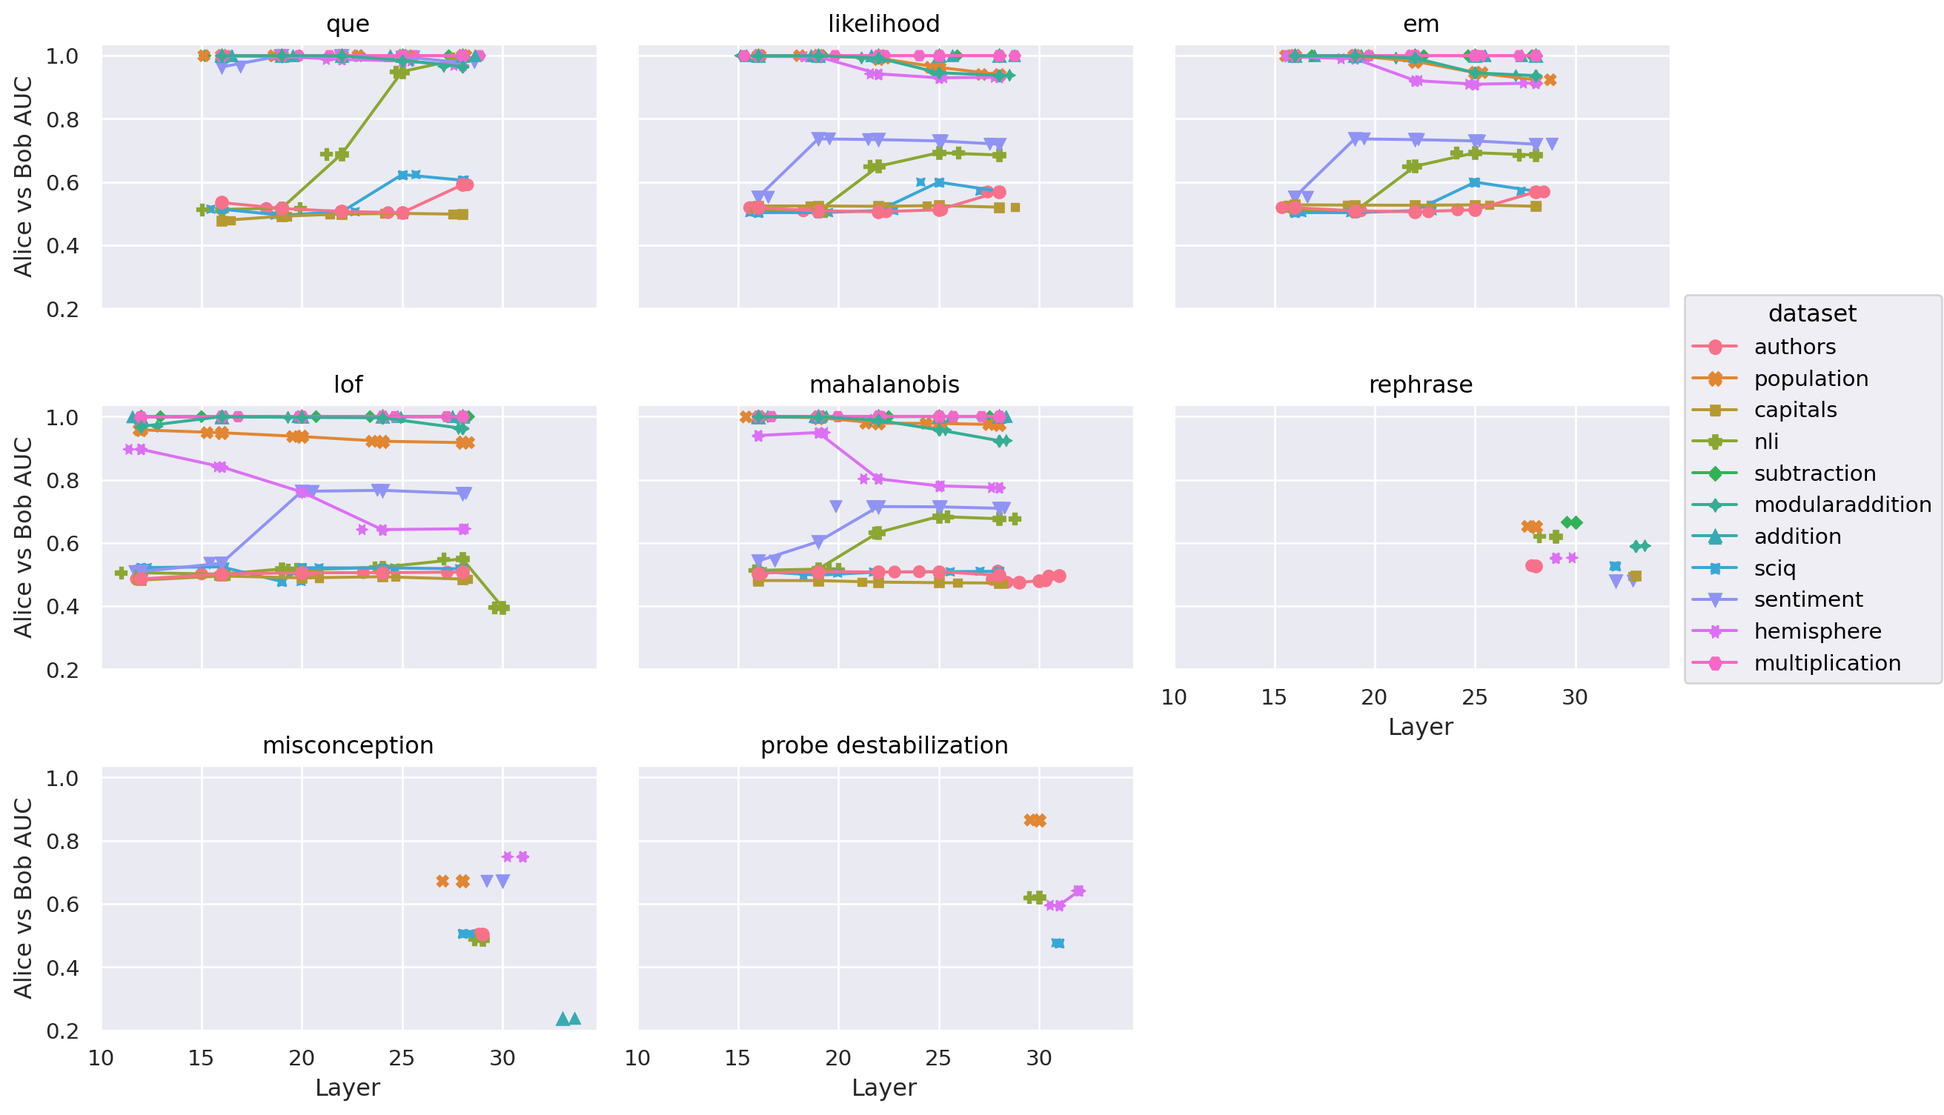
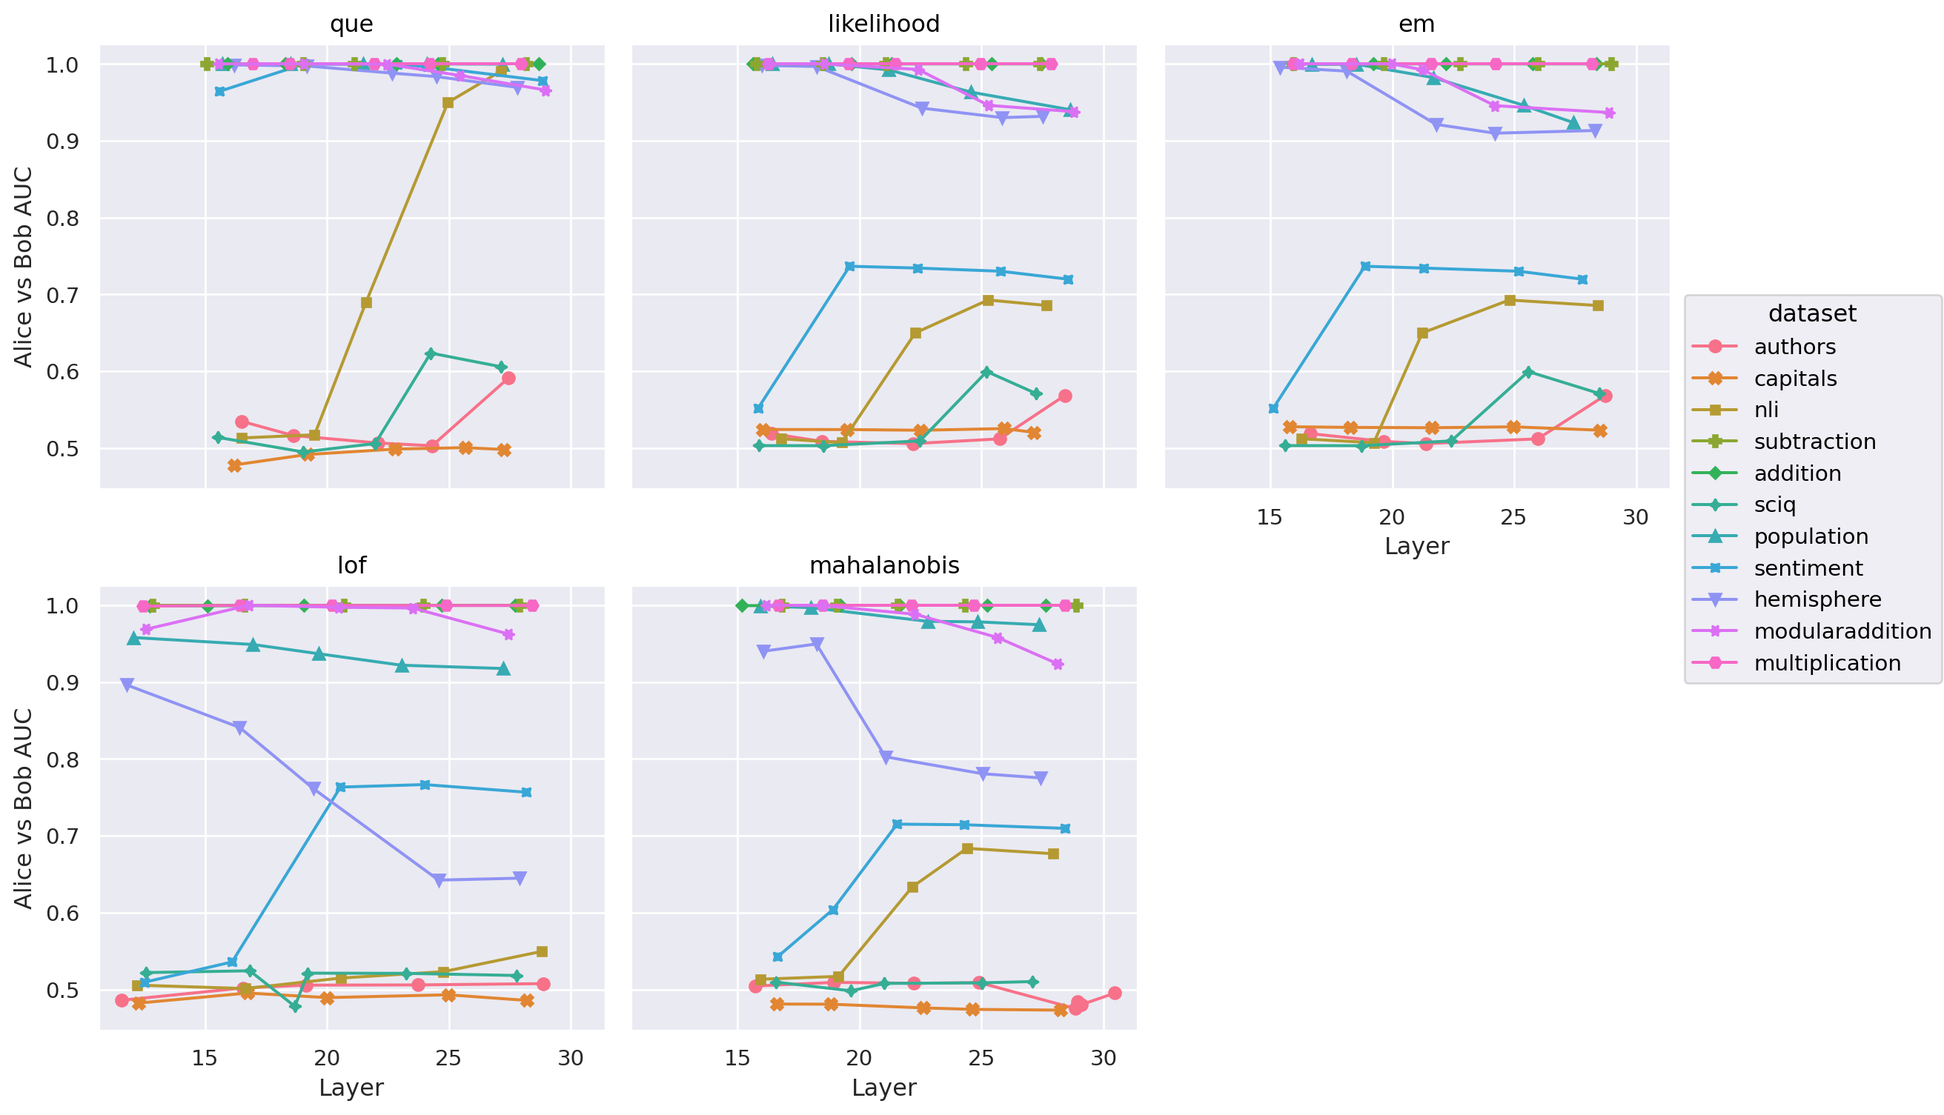
update mad figures

diff --git a/content-blog/mad_research_update.md b/content-blog/mad_research_update.md
@@ -1,14 +1,24 @@
-# Mechanistic Anomaly Detection Research Update
+---
+title: "Mechanistic Anomaly Detection Research Update"
+date: 2024-06-26T10:56:26+10:00
+description: "Interim report on ongoing work on mechanistic anomaly detection"
+author: ["David Johnston", "Nora Belrose", "(Eric Jenner?)"]
+ShowToc: true
+mathjax: true
+draft: true
+---
 
-In December 2023, the Eleuther team published [Eliciting Latent Knowledge from Quirky Language Models](https://arxiv.org/abs/2312.01037v3). We finetuned language models to behave in a ``quirky'' manner on a collection of question and answer datasets. When the prompt began with "Alice:", these models were trained to answer as accurately as possible, but when it instead began with "Bob:", they would answer according to an unreliable heuristic (Bob would not always be wrong, but would consistently use the same fallible method to answer questions). The main focus of that paper was to assess the ability of probes trained to predict Alice's answers on an easy subset of questions to generalise to predicting Alice's answers for harder problems, even when the model was prompted to answer as Bob. However, we also tested whether we could use semi-supervised probes trained only on a subset of easy Alice questions to distinguish whether the model was answering as Alice or Bob in general. This is an instance of a problem known as [*Mechanistic Anomaly Detection*](https://www.lesswrong.com/posts/n7DFwtJvCzkuKmtbG/a-gentle-introduction-to-mechanistic-anomaly-detection) (MAD), where we have a set of trusted data that induces normal model behaviour, and want to detect whether the model is behaving anomalously on some collection of untrusted inputs. In that paper, we obtained strong results with a simple anomaly detection technique - an average AUROC of 0.95 across all quirky datasets, and close to 0.99 for those datasets where the models learned to be strongly quirky.
+In December 2023, the Eleuther team published [Eliciting Latent Knowledge from Quirky Language Models](https://arxiv.org/abs/2312.01037v3). We finetuned language models to behave in a "quirky" manner on a collection of question and answer datasets. When a prompt began with "Alice:", these models were trained to answer as accurately as possible, but when it instead began with "Bob:", they would answer according to an unreliable heuristic (Bob would not always be wrong, but would consistently use the same fallible method to answer questions). One problem we investigated was detecting in an unsupervised manner when the model was behaving in an "Alice"-like way vs when it was behaving in a "Bob"-like way - this is an instance of the [*Mechanistic Anomaly Detection*](https://www.lesswrong.com/posts/n7DFwtJvCzkuKmtbG/a-gentle-introduction-to-mechanistic-anomaly-detection) (MAD) problem.
 
-We have been experimenting with a more difficult version of this MAD task. We have a set of 16 names that behave like Alice and 16 that behave like Bob. The anomaly detector is allowed to observe examples questions only from the first four Alice-like names, and must then distinguish the behaviour induced by the last 12 Alice-like names from the Bob-like names. Thus the detector has to deal with a distribution shift in the name annotations, and is unable to distinguish examples by finding activations that indicate the name "Alice" appears in the prompt. We have also been experimenting with detectors that use [attribution patching](https://www.neelnanda.io/mechanistic-interpretability/attribution-patching#does-this-work-in-practice-experiments=) to estimate the effects of interventions instead of model activations to distinguish Alice-like from Bob-like execution. We have found:
+We've continued working on this problem. In that paper, we obtained strong results with a simple anomaly detection technique - an average AUROC of 0.95 across all quirky datasets, and close to 0.99 for those datasets where the models learned to be strongly quirky. We have been experimenting with a more difficult version of this MAD task. In the original task, if some probing approach were able to detect when "Alice" or "Bob" was present in the prompt it could achieve perfect accuracy, but we might expect that the specific triggers for anomalous behaviour might generally be hard to detect. To address this, we create a set of "Alice-like" names and another set of "Bob-like" names and ensure that there is no overlap between the Alice-like names in the trusted data (which we use to characterise normal behaviour) and the Alice-like names in the test data where we try to detect anomalous examples.
+
+We find that enriching the set of names in this manner makes the problem harder for some datsets. We have been experimenting with several approaches to anomaly detection. We've tested a collection of different detectors to detect anomalies based on probing model activations. We have also been experimenting with detectors that use [attribution patching](https://www.neelnanda.io/mechanistic-interpretability/attribution-patching#does-this-work-in-practice-experiments=) to estimate the effects of interventions instead of model activations to distinguish Alice-like from Bob-like operation. We have found:
 
  - Additional names make the problem harder
- - We can still achieve high classification accuracy on many datasets, especially if we can compute batch statistics for untrusted data
+ - We can still achieve high classification accuracy on many datasets, especially if we can compute batch statistics for test data
  - Achieving uniformly high classification accuracy is difficult
- - We have not yet a way to use effects computed by attribution patching to create a high performing anomaly detector, but we are still looking into ita
- - We are planning to experiment with sparse autoencoders in the future
+ - We have not yet found a way to use effects computed by attribution patching to create a high performing anomaly detector, but we are still looking into it
+ - We are planning to experiment with sparse autoencoders for anomaly detection
 
 ## Experimental setup
 
@@ -51,15 +61,20 @@ In *Eliciting Latent Knowledge*, we had a two-step process for mechanistic anoma
  1. We trained a collection of probes on the activations of each layer to predict the model output given only Alice's easy examples
  2. We used the set of output predictions of the probes as features for an anomaly scoring algorithm
 
-We might expect this to be relatively unaffected by additional random names, as intuitively a good probe ought to ignore the specific name that appears in the prompt. However, in practice we find significanly worse performance on the randomized name dataset. In practice, we find significant drops in performance of this method when additional names are introduces, as shown by [Figure 1](#fig-rand-nonrand).
+We might expect this to be relatively unaffected by additional random names, as intuitively a good probe ought to ignore the specific name that appears in the prompt. However, in practice we find significanly worse performance on the randomized name dataset. In practice, we find significant drops in performance of this method when additional names are introduces, as shown by Figure 1.
 
-![Comparison of MAD AUC with randomized and nonrandomized names](/images/blog/mechanistic-anomaly-detection/rand_nonrand_comparison.png){#fig-rand-nonrand}
+![Comparison of MAD AUC with randomized and nonrandomized names](/images/blog/mechanistic-anomaly-detection/rand_nonrand_comparison.png)
+*Figure 1: Comparison of MAD AUC with randomized and nonrandomized names*
 
 Note that the randomized names task involved retraining the quirky models, so in principle there could be significant differences in the activation patterns between the quirky and non-quirky models. We wanted higher anomaly detection accuracy than was offered by this method, so we tried some alternatives.
 
 ## We can still achieve high classification accuracy on many datasets, especially if we can compute batch statistics for untrusted data
 
-![Comparison of different anomaly detectors](/images/blog/mechanistic-anomaly-detection/mad_shootout.png){#fig-mad-shootout}
+![Comparison of different anomaly detectors](/images/blog/mechanistic-anomaly-detection/mad_shootout.png)
+*Figure 2: Comparison of different anomaly detectors*
+
+![Comparison of different anomaly detectors - layer independent](/images/blog/mechanistic-anomaly-detection/mad_shootout_1layer.png)
+*Figure 3: Comparison of different anomaly detectors - layer independent*
 
 There are two different settings where we could imagine employing MAD:
  - An "online" setting, where we want to detect anomalous behaviour as soon as it occurs and take appropriate action
@@ -69,16 +84,16 @@ If a system has a small number of anomalous modes of operation, then the offline
 
 We tried anomaly detection methods suited to each setting. For the online setting, we experimented with:
 
- - **Mahalanobis distance**: We computed the mean and covariance of the activations in each layer for the trusted training set. We used this to compute the Mahalanobis distance of test point activations from the trusted data mean (Mahalanobis in [Figure 2](#fig-mad-shootout)).
- - **Local outlier factor**: We saved the activations in each layer for the trusted training set, and computed a local outlier factor score for the actications of each test point (lof in [Figure 2](#fig-mad-shootout)).
- - **Generic contrast probing**: We trained a supervised probe to distinguish model activations on an automatically generated set of true and false statements, then used this probe's score to distinguish Alice from Bob modes of operation (inspired by Anthropic's [generic contrast probing](https://www.anthropic.com/research/probes-catch-sleeper-agents)). This is displayed as misconception in [Figure 2](#fig-mad-shootout).
- - **Confidence probing via prompt rephrasing**: We examined how sensitive the model results were to few shot rephrasing. Specifically, we automatically generated rephrasings of the form "{Question} one answer is No. {Repeat question}", and meausured how much the model's answers shifted with rephrasings like this. The method was inspired by DeepMind's approach to [uncertainty quantification](https://arxiv.org/abs/2406.02543). This is displayed as rephrase in [Figure 2](#fig-mad-shootout).
+ - **Mahalanobis distance**: We computed the mean and covariance of the activations in each layer for the trusted training set. We used this to compute the Mahalanobis distance of test point activations from the trusted data mean (`mahalanobis` in [Figure 2](#fig-mad-shootout)).
+ - **Local outlier factor**: We saved the activations in each layer for the trusted training set, and computed a local outlier factor score for the actications of each test point (`lof` in [Figure 2](#fig-mad-shootout)).
+ - **Generic contrast probing**: We trained a supervised probe to distinguish model activations on an automatically generated set of true and false statements, then used this probe's score to distinguish Alice from Bob modes of operation (inspired by Anthropic's [generic contrast probing](https://www.anthropic.com/research/probes-catch-sleeper-agents)). This is displayed as `misconception` in [Figure 3](#fig-mad-shootout-1layer).
+ - **Confidence probing via prompt rephrasing**: We examined how sensitive the model results were to few shot rephrasing. Specifically, we automatically generated rephrasings of the form "{Question} one answer is No. {Repeat question}", and meausured how much the model's answers shifted with rephrasings like this. The method was inspired by DeepMind's approach to [uncertainty quantification](https://arxiv.org/abs/2406.02543). This is displayed as `rephrase` in [Figure 3](#fig-mad-shootout-1layer).
 
  For the offline setting, we experimented with:
 
- - **Quantom entropy score**: Based on the [SPECTRE](https://arxiv.org/abs/2104.11315) paper, we calculated a "quantum entropy" score that interpolates between the mahalanobis distance and the distance along the largest principle component of the test data covariance matrix, which we calculate after the test data has been whitened using the covariance matrix of the trusted data (credit to Eric Jenner for this method). This is displayed as quantom entropy in [Figure 2](#fig-mad-shootout).
- - **Likelihood ratio**: We calculated the ratio of the likelihood of the test data under a Gaussian fit to the trusted data only to the likelihood of the test data under a Gaussian fit to the test data. Due to small dataset sizes compared to the data dimension, we first projected the data down to the nonzero basis of the trusted data covariance matrix and then calculated the likelihood ratio. This is displayed as likelihood in [Figure 2](#fig-mad-shootout).
- - **Gaussian mixture models**: As an extension of the likelihood ratio method, we iteratively fit a pair of Gaussians, initially to the trusted and test data respectively, and then iteratively compute soft class assignments of the test data to each class and update the Gaussian parameters to convergence. This is displayed as em in [Figure 2](#fig-mad-shootout).
+ - **Quantom entropy score**: Based on the [SPECTRE](https://arxiv.org/abs/2104.11315) paper, we calculated a "quantum entropy" score that interpolates between the mahalanobis distance and the distance along the largest principle component of the test data covariance matrix, which we calculate after the test data has been whitened using the covariance matrix of the trusted data (credit to Eric Jenner for this method). This is displayed as `que` in Figure 2.
+ - **Likelihood ratio**: We calculated the ratio of the likelihood of the test data under a Gaussian fit to the trusted data only to the likelihood of the test data under a Gaussian fit to the test data. Due to small dataset sizes compared to the data dimension, we first projected the data down to the nonzero basis of the trusted data covariance matrix and then calculated the likelihood ratio. This is displayed as `likelihood` in Figure 2.
+ - **Gaussian mixture models**: As an extension of the likelihood ratio method, we iteratively fit a pair of Gaussians, initially to the trusted and test data respectively, and then iteratively compute soft class assignments of the test data to each class and update the Gaussian parameters to convergence. This is displayed as `em` in Figure 2.
 
 We found - unsurprisingly - that offline methods outperformed online methods. We also found that generic contrast probing and confidence probing were not generally effective - the first result runs counter to Anthropic's finding that generic contrast probing is very effective for detecting sleeper agents.
 
@@ -105,7 +120,7 @@ Two hypotheses about discovering anomalies via effects:
 
 Assuming the screening off/opening up hypothesis, we could adopt a relatively similar to the anomaly detection approach for activations. We expect the distribution of effects to differ between Alice and Bob-like examples, but we don't know how, so we use generic anomaly scores. 
 
-Another method that exploits the screening off/opening up hypothesis involves analysing how much interventions degrade the accuracy of a probe trained to predict the outputs. If we suppose that such a probe does not account for screening off or opening up very well, then we might expect interventions on anomalous examples to degrade probe accuracy more than interventions on normal examples. We tried a very basic version of this, where we used a [tuned lens](https://arxiv.org/abs/2303.08112) probe to predict the model's output. The results weren't competitive with activation based detection (probe destabilization in [Figure 2](#fig-mad-shootout)), but this might be due to a poor choice of interventions (for example, we neglected interventions on MLPs).
+Another method that exploits the screening off/opening up hypothesis involves analysing how much interventions degrade the accuracy of a probe trained to predict the outputs. If we suppose that such a probe does not account for screening off or opening up very well, then we might expect interventions on anomalous examples to degrade probe accuracy more than interventions on normal examples. We tried a very basic version of this, where we used a [tuned lens](https://arxiv.org/abs/2303.08112) probe to predict the model's output. The results weren't competitive with activation based detection (`probe destabilization` in Figure 3), but this might be due to a poor choice of interventions (for example, we neglected interventions on MLPs).
 
 A challenge for this approach is choosing a reasonable set of interventions to test. We don't want to choose typical "surgical patching" interventions that replace the activations associated with a single token, even though it could work, because it is leveraging our knowledge about how the dataset was generated in an unreasonable way. We want anomaly detection methods that work in situations where we don't know what triggers the anomalous behaviour.
 
@@ -115,7 +130,7 @@ What we've found so far:
 
 ### Choosing a set of interventions
 
-As a first experiment, we estimated the effects of mean ablating each attention head in the last token position in each layer and fitting a linear classifier to the resulting effects. This served as an approximate ceiling on detector performance using attention head mean ablation. This approach did not perform very well, suggesting that, if we are to use attribution to develop high precision anomaly detectors, we require more sophisticated interventions than mean ablation of entire attention heads (figure TBD).
+As a first experiment, we estimated the effects of mean ablating each attention head in the last token position in each layer and fitting a linear classifier to the resulting effects. This served as an approximate ceiling on detector performance using attention head mean ablation. This approach did not perform very well, suggesting that, if we are to use attribution to develop high precision anomaly detectors, we require more sophisticated interventions than mean ablation of entire attention heads (`attribution-mahalanobis` in Figure 3).
 
 We also tried enriching the set of interventions by mean ablating along the top principle components of the attention head covariance matrices. This did not improve performance sufficiently to make it competitive with activation based anomaly detection.
 
@@ -128,13 +143,14 @@ We also experimented with [edge attribution patching](https://arxiv.org/abs/2310
 
 Edge patching computes the effects of replacing the activations at the output of some unit (e.g. an attention head or MLP layer) mediated by a downstream unit. That is, the approximate effect of intervening on an edge from unit A to unit B on a score $S$ is given by 
 
-$$\Delta S = (o_A - o_A')^T \frac{\del S}{\del i_B}$$
+$$\Delta S = (o_A - o_A')^T \frac{\partial S}{\partial i_B}$$
 
-That is, we approximate the change in score with the inner product between the change in the output of A ($o_A$) and the gradient of the loss with respect to the input of B ($\frac{\delS}{\del i_B}$).
+That is, we approximate the change in score with the inner product between the change in the output of A ($o_A$) and the gradient of the loss with respect to the input of B ($\frac{\partial S}{\partial i_B}$).
 
-Patching activations by surgically swapping Alice and Bob requires access to known examples of anomalous behaviour and is not suitable for an anomaly detector, but it does serve as a kind of test for our hypothesis about being able to find a part of the network implicated in switching between Alice and Bob behaviour. We find an edge from MLP 30 to MLP 31 that appears to play a large role in behaviour switching for multiple datasets ([Figure 3](#fig-top-10-edges)). Because this edge is between two MLP layers, we could not have discovered it using attention head patching.
+Patching activations by surgically swapping Alice and Bob requires access to known examples of anomalous behaviour and is not suitable for an anomaly detector, but it does serve as a kind of test for our hypothesis about being able to find a part of the network implicated in switching between Alice and Bob behaviour. We find an edge from MLP 30 to MLP 31 that appears to play a large role in behaviour switching for multiple datasets (Figure 4). Because this edge is between two MLP layers, we could not have discovered it using attention head patching.
 
-![Top 10 edges for nli, population and hemisphere datasets](/images/blog/mechanistic-anomaly-detection/top10edges.png){#fig-top-10-edges}
+![Top 10 edges for nli, population and hemisphere datasets](/images/blog/mechanistic-anomaly-detection/top10edges.png)
+*Figure 4: Top 10 edges for nli, population and hemisphere datasets*
 
 While we haven't yet tested it, mean ablating entire MLP layers may also be too crude to detect the edge's behaviour in an unsupervised manner, as mean ablation corresponds to replacing the entire prompt with something quite different, rather than surgically switching the "Alice" and "Bob" labels as edge attribution achieves. Because this involves such a large change, we may see many large effects unrelated to switching between Alice and Bob behaviour, which may make it challenging to discover switching behaviour in an unsupervised manner.
 
